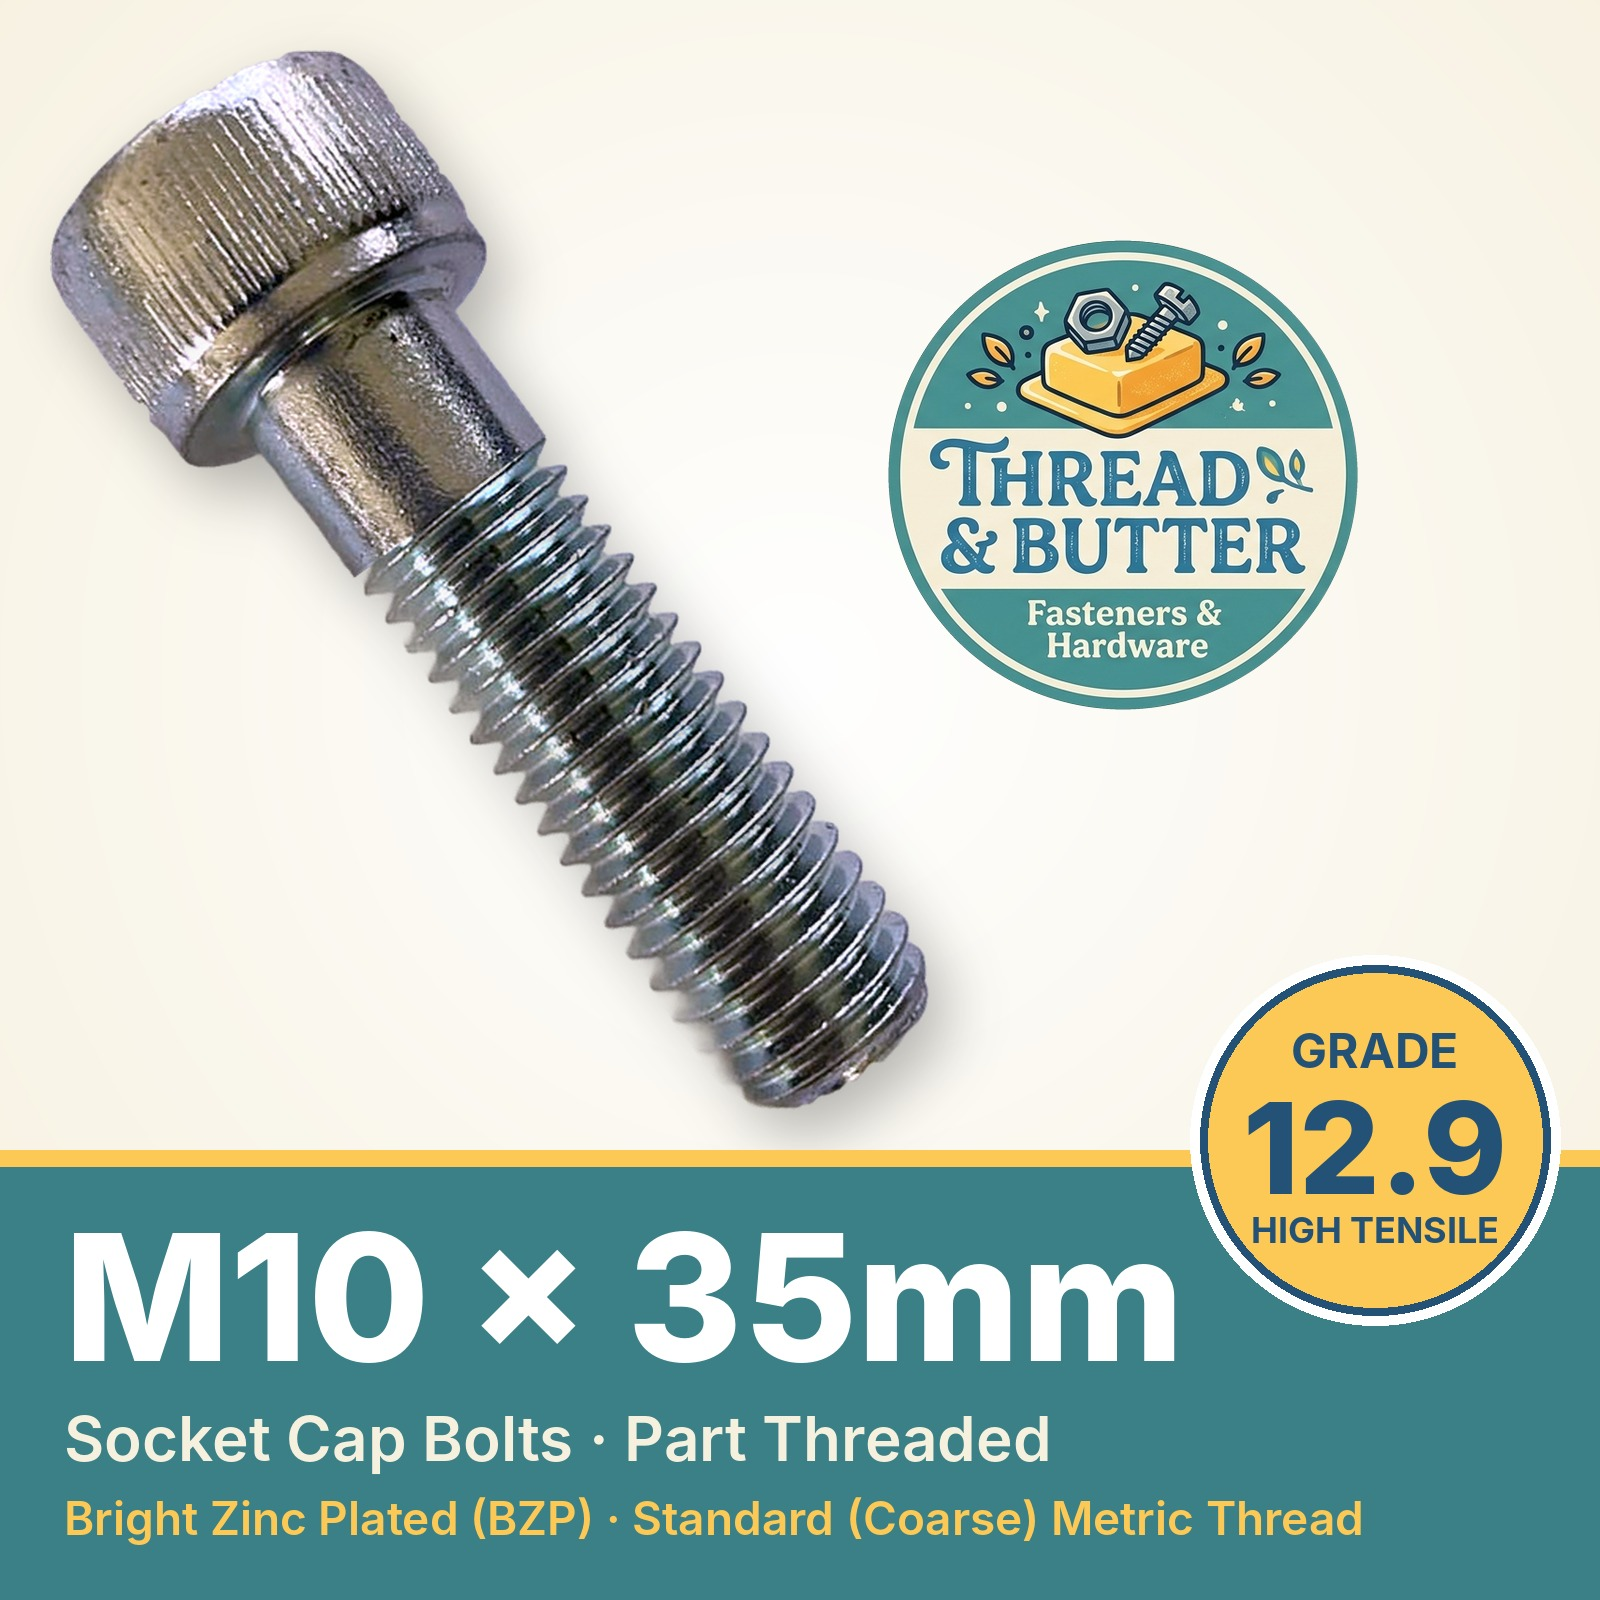
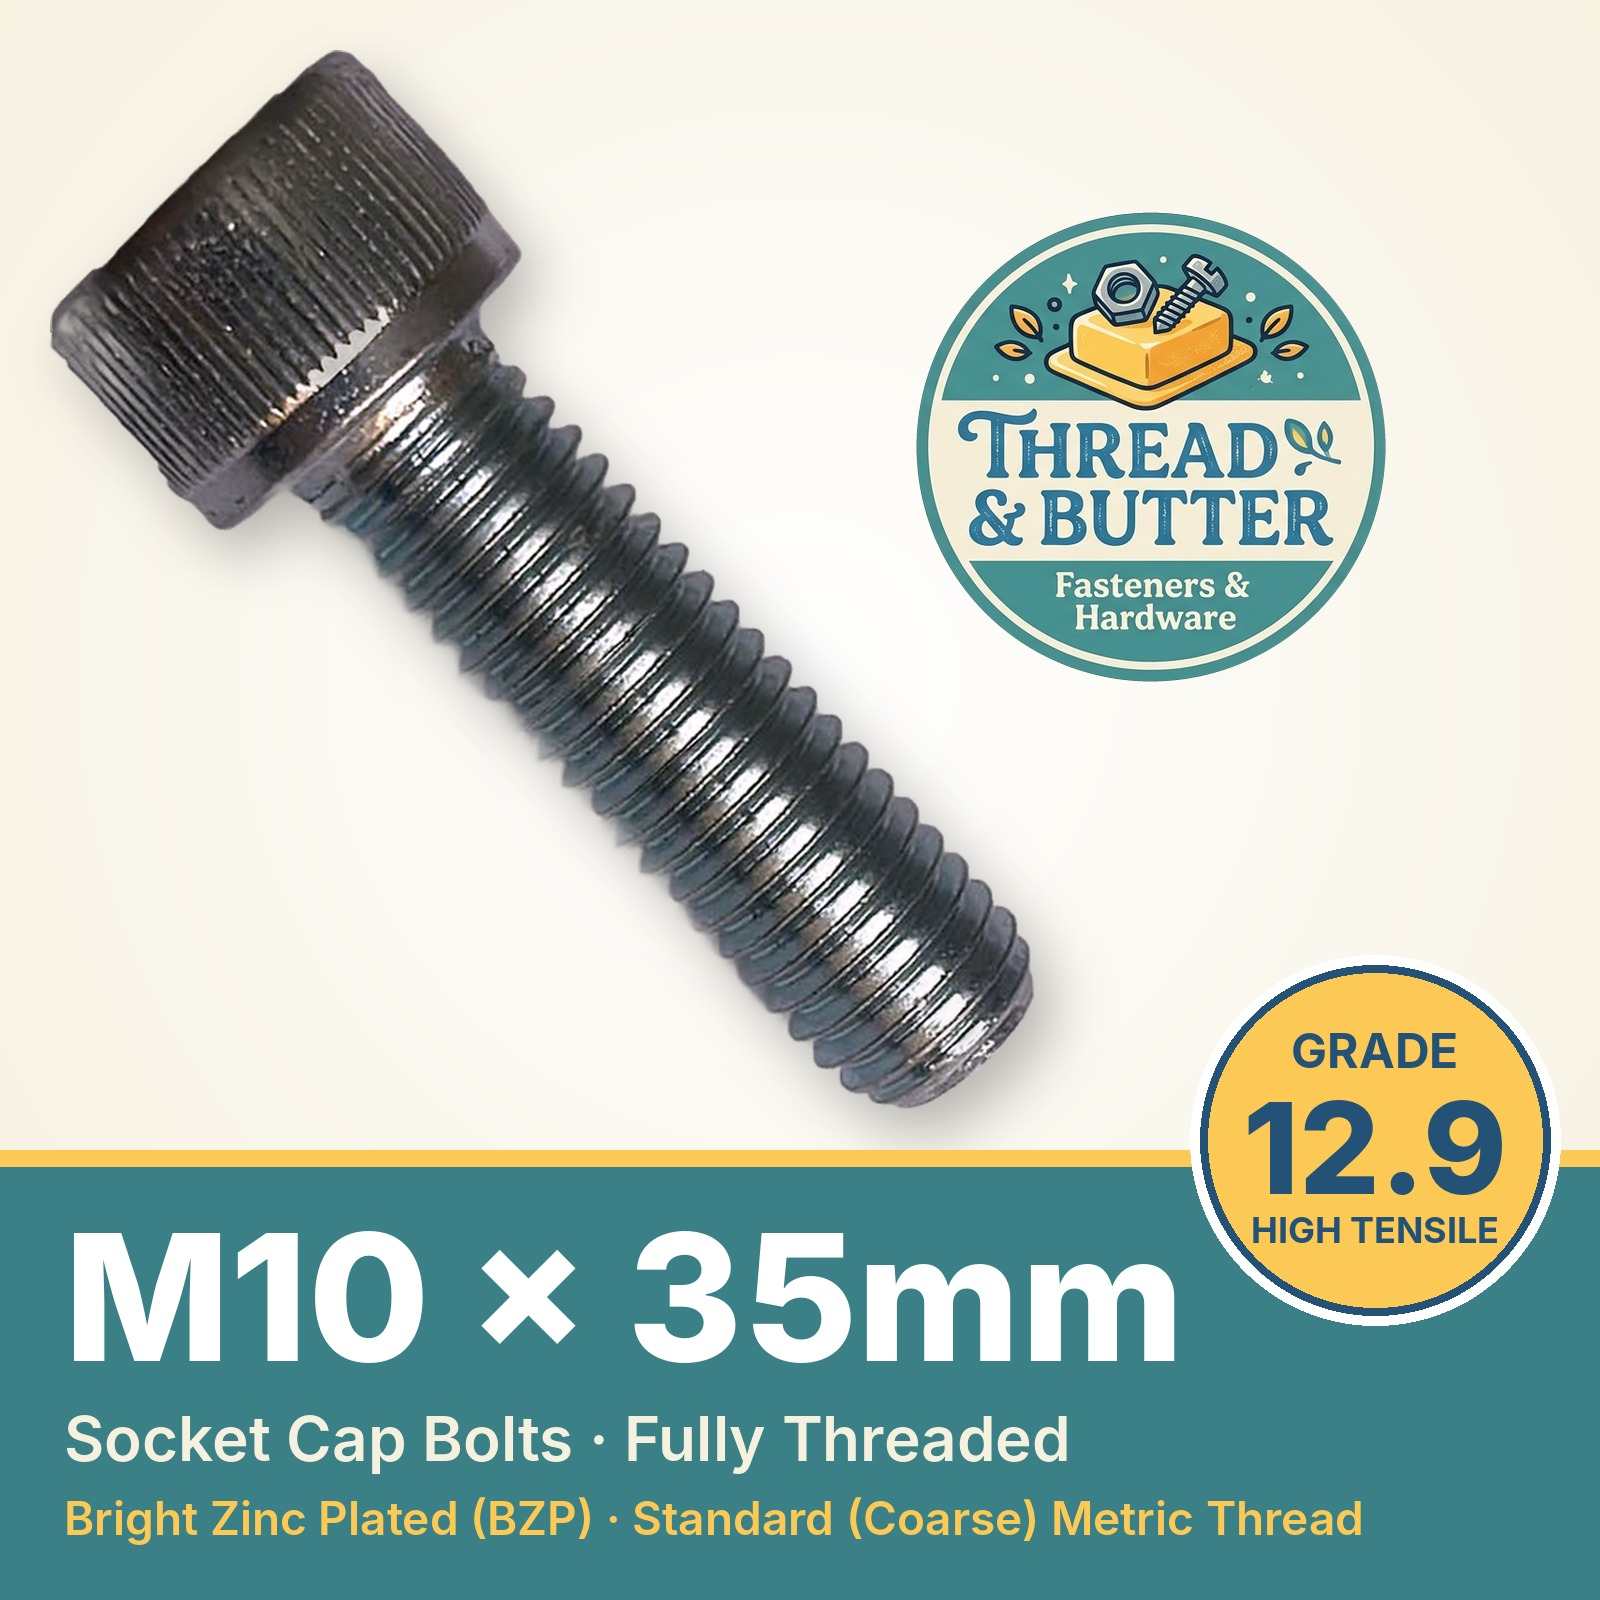
M10 x 35/40mm socket caps are fully threaded: pictures and descriptions
Claude-Session: https://claude.ai/code/session_01BDvgvPwPgotSTWsqhAi9Pu

Changed region(s): [[0.0312, 0.0312, 0.6875, 0.7188], [0.5312, 0.125, 0.875, 0.4688], [0.4062, 0.875, 0.6875, 0.9375]]

diff --git a/descriptions/M10-cap/SSC-M10-35-12.9-Z.html b/descriptions/M10-cap/SSC-M10-35-12.9-Z.html
@@ -5,9 +5,9 @@
 <h1 style="margin:4px 0 0;font-size:24px;line-height:1.25;">M10 x 35mm Socket Cap Bolts – BZP - Grade 12.9 (High Tensile)</h1>
 </div>
 <div style="background:#f6f0de;padding:16px 20px;">
-<p style="margin:0;">Part threaded M10 socket cap (allen head) bolts, 35mm long, in grade 12.9 high tensile steel with a bright zinc plated finish. Choose 1 bolt or a pack of 2, 5 or 10 from the drop-down menu.</p>
+<p style="margin:0;">Fully threaded M10 socket cap (allen head) bolts, 35mm long, in grade 12.9 high tensile steel with a bright zinc plated finish. Choose 1 bolt or a pack of 2, 5 or 10 from the drop-down menu.</p>
 </div>
 <h2 style="font-size:18px;color:#245276;margin:22px 0 8px;">Specification</h2>
-<table style="width:100%;border-collapse:collapse;background:#fff;"><tr><td style="padding:8px 12px;border-bottom:1px solid #e3dcc6;font-weight:bold;color:#265c62;width:32%;vertical-align:top;">Thread</td><td style="padding:8px 12px;border-bottom:1px solid #e3dcc6;">M10 x 1.5 mm (standard coarse pitch)</td></tr><tr><td style="padding:8px 12px;border-bottom:1px solid #e3dcc6;font-weight:bold;color:#265c62;width:32%;vertical-align:top;">Length</td><td style="padding:8px 12px;border-bottom:1px solid #e3dcc6;">35 mm, measured from under the head to the tip</td></tr><tr><td style="padding:8px 12px;border-bottom:1px solid #e3dcc6;font-weight:bold;color:#265c62;width:32%;vertical-align:top;">Threading</td><td style="padding:8px 12px;border-bottom:1px solid #e3dcc6;">Part threaded – plain shank under the head, threaded to the tip</td></tr><tr><td style="padding:8px 12px;border-bottom:1px solid #e3dcc6;font-weight:bold;color:#265c62;width:32%;vertical-align:top;">Head</td><td style="padding:8px 12px;border-bottom:1px solid #e3dcc6;">Cylindrical socket cap, 16 mm diameter, 10 mm high</td></tr><tr><td style="padding:8px 12px;border-bottom:1px solid #e3dcc6;font-weight:bold;color:#265c62;width:32%;vertical-align:top;">Drive</td><td style="padding:8px 12px;border-bottom:1px solid #e3dcc6;">Hex socket – 8 mm allen key</td></tr><tr><td style="padding:8px 12px;border-bottom:1px solid #e3dcc6;font-weight:bold;color:#265c62;width:32%;vertical-align:top;">Total length</td><td style="padding:8px 12px;border-bottom:1px solid #e3dcc6;">45 mm end to end, including the head</td></tr><tr><td style="padding:8px 12px;border-bottom:1px solid #e3dcc6;font-weight:bold;color:#265c62;width:32%;vertical-align:top;">Strength</td><td style="padding:8px 12px;border-bottom:1px solid #e3dcc6;">Grade 12.9 high tensile steel (1200 MPa tensile, 1080 MPa yield)</td></tr><tr><td style="padding:8px 12px;border-bottom:1px solid #e3dcc6;font-weight:bold;color:#265c62;width:32%;vertical-align:top;">Finish</td><td style="padding:8px 12px;border-bottom:1px solid #e3dcc6;">Bright Zinc Plated (BZP)</td></tr><tr><td style="padding:8px 12px;border-bottom:1px solid #e3dcc6;font-weight:bold;color:#265c62;width:32%;vertical-align:top;">Standard</td><td style="padding:8px 12px;border-bottom:1px solid #e3dcc6;">DIN 912 / ISO 4762</td></tr><tr><td style="padding:8px 12px;border-bottom:1px solid #e3dcc6;font-weight:bold;color:#265c62;width:32%;vertical-align:top;">Made in</td><td style="padding:8px 12px;border-bottom:1px solid #e3dcc6;">United Kingdom</td></tr></table>
+<table style="width:100%;border-collapse:collapse;background:#fff;"><tr><td style="padding:8px 12px;border-bottom:1px solid #e3dcc6;font-weight:bold;color:#265c62;width:32%;vertical-align:top;">Thread</td><td style="padding:8px 12px;border-bottom:1px solid #e3dcc6;">M10 x 1.5 mm (standard coarse pitch)</td></tr><tr><td style="padding:8px 12px;border-bottom:1px solid #e3dcc6;font-weight:bold;color:#265c62;width:32%;vertical-align:top;">Length</td><td style="padding:8px 12px;border-bottom:1px solid #e3dcc6;">35 mm, measured from under the head to the tip</td></tr><tr><td style="padding:8px 12px;border-bottom:1px solid #e3dcc6;font-weight:bold;color:#265c62;width:32%;vertical-align:top;">Threading</td><td style="padding:8px 12px;border-bottom:1px solid #e3dcc6;">Fully threaded – thread runs right up to the head</td></tr><tr><td style="padding:8px 12px;border-bottom:1px solid #e3dcc6;font-weight:bold;color:#265c62;width:32%;vertical-align:top;">Head</td><td style="padding:8px 12px;border-bottom:1px solid #e3dcc6;">Cylindrical socket cap, 16 mm diameter, 10 mm high</td></tr><tr><td style="padding:8px 12px;border-bottom:1px solid #e3dcc6;font-weight:bold;color:#265c62;width:32%;vertical-align:top;">Drive</td><td style="padding:8px 12px;border-bottom:1px solid #e3dcc6;">Hex socket – 8 mm allen key</td></tr><tr><td style="padding:8px 12px;border-bottom:1px solid #e3dcc6;font-weight:bold;color:#265c62;width:32%;vertical-align:top;">Total length</td><td style="padding:8px 12px;border-bottom:1px solid #e3dcc6;">45 mm end to end, including the head</td></tr><tr><td style="padding:8px 12px;border-bottom:1px solid #e3dcc6;font-weight:bold;color:#265c62;width:32%;vertical-align:top;">Strength</td><td style="padding:8px 12px;border-bottom:1px solid #e3dcc6;">Grade 12.9 high tensile steel (1200 MPa tensile, 1080 MPa yield)</td></tr><tr><td style="padding:8px 12px;border-bottom:1px solid #e3dcc6;font-weight:bold;color:#265c62;width:32%;vertical-align:top;">Finish</td><td style="padding:8px 12px;border-bottom:1px solid #e3dcc6;">Bright Zinc Plated (BZP)</td></tr><tr><td style="padding:8px 12px;border-bottom:1px solid #e3dcc6;font-weight:bold;color:#265c62;width:32%;vertical-align:top;">Standard</td><td style="padding:8px 12px;border-bottom:1px solid #e3dcc6;">DIN 912 / ISO 4762</td></tr><tr><td style="padding:8px 12px;border-bottom:1px solid #e3dcc6;font-weight:bold;color:#265c62;width:32%;vertical-align:top;">Made in</td><td style="padding:8px 12px;border-bottom:1px solid #e3dcc6;">United Kingdom</td></tr></table>
 <img src="https://tbfasteners.github.io/eby-fstnr-pcs/shared/footer.png" alt="Thread &amp; Butter – Specialists in High-Tensile Fasteners. Free postage, fast dispatch, made in UK." style="display:block;width:100%;max-width:800px;height:auto;border:0;margin:22px 0 0;">
 </div>

diff --git a/descriptions/M10-cap/SSC-M10-40-12.9-Z.html b/descriptions/M10-cap/SSC-M10-40-12.9-Z.html
@@ -5,9 +5,9 @@
 <h1 style="margin:4px 0 0;font-size:24px;line-height:1.25;">M10 x 40mm Socket Cap Bolts – BZP - Grade 12.9 (High Tensile)</h1>
 </div>
 <div style="background:#f6f0de;padding:16px 20px;">
-<p style="margin:0;">Part threaded M10 socket cap (allen head) bolts, 40mm long, in grade 12.9 high tensile steel with a bright zinc plated finish. Choose 1 bolt or a pack of 2, 5 or 10 from the drop-down menu.</p>
+<p style="margin:0;">Fully threaded M10 socket cap (allen head) bolts, 40mm long, in grade 12.9 high tensile steel with a bright zinc plated finish. Choose 1 bolt or a pack of 2, 5 or 10 from the drop-down menu.</p>
 </div>
 <h2 style="font-size:18px;color:#245276;margin:22px 0 8px;">Specification</h2>
-<table style="width:100%;border-collapse:collapse;background:#fff;"><tr><td style="padding:8px 12px;border-bottom:1px solid #e3dcc6;font-weight:bold;color:#265c62;width:32%;vertical-align:top;">Thread</td><td style="padding:8px 12px;border-bottom:1px solid #e3dcc6;">M10 x 1.5 mm (standard coarse pitch)</td></tr><tr><td style="padding:8px 12px;border-bottom:1px solid #e3dcc6;font-weight:bold;color:#265c62;width:32%;vertical-align:top;">Length</td><td style="padding:8px 12px;border-bottom:1px solid #e3dcc6;">40 mm, measured from under the head to the tip</td></tr><tr><td style="padding:8px 12px;border-bottom:1px solid #e3dcc6;font-weight:bold;color:#265c62;width:32%;vertical-align:top;">Threading</td><td style="padding:8px 12px;border-bottom:1px solid #e3dcc6;">Part threaded – plain shank under the head, threaded to the tip</td></tr><tr><td style="padding:8px 12px;border-bottom:1px solid #e3dcc6;font-weight:bold;color:#265c62;width:32%;vertical-align:top;">Head</td><td style="padding:8px 12px;border-bottom:1px solid #e3dcc6;">Cylindrical socket cap, 16 mm diameter, 10 mm high</td></tr><tr><td style="padding:8px 12px;border-bottom:1px solid #e3dcc6;font-weight:bold;color:#265c62;width:32%;vertical-align:top;">Drive</td><td style="padding:8px 12px;border-bottom:1px solid #e3dcc6;">Hex socket – 8 mm allen key</td></tr><tr><td style="padding:8px 12px;border-bottom:1px solid #e3dcc6;font-weight:bold;color:#265c62;width:32%;vertical-align:top;">Total length</td><td style="padding:8px 12px;border-bottom:1px solid #e3dcc6;">50 mm end to end, including the head</td></tr><tr><td style="padding:8px 12px;border-bottom:1px solid #e3dcc6;font-weight:bold;color:#265c62;width:32%;vertical-align:top;">Strength</td><td style="padding:8px 12px;border-bottom:1px solid #e3dcc6;">Grade 12.9 high tensile steel (1200 MPa tensile, 1080 MPa yield)</td></tr><tr><td style="padding:8px 12px;border-bottom:1px solid #e3dcc6;font-weight:bold;color:#265c62;width:32%;vertical-align:top;">Finish</td><td style="padding:8px 12px;border-bottom:1px solid #e3dcc6;">Bright Zinc Plated (BZP)</td></tr><tr><td style="padding:8px 12px;border-bottom:1px solid #e3dcc6;font-weight:bold;color:#265c62;width:32%;vertical-align:top;">Standard</td><td style="padding:8px 12px;border-bottom:1px solid #e3dcc6;">DIN 912 / ISO 4762</td></tr><tr><td style="padding:8px 12px;border-bottom:1px solid #e3dcc6;font-weight:bold;color:#265c62;width:32%;vertical-align:top;">Made in</td><td style="padding:8px 12px;border-bottom:1px solid #e3dcc6;">United Kingdom</td></tr></table>
+<table style="width:100%;border-collapse:collapse;background:#fff;"><tr><td style="padding:8px 12px;border-bottom:1px solid #e3dcc6;font-weight:bold;color:#265c62;width:32%;vertical-align:top;">Thread</td><td style="padding:8px 12px;border-bottom:1px solid #e3dcc6;">M10 x 1.5 mm (standard coarse pitch)</td></tr><tr><td style="padding:8px 12px;border-bottom:1px solid #e3dcc6;font-weight:bold;color:#265c62;width:32%;vertical-align:top;">Length</td><td style="padding:8px 12px;border-bottom:1px solid #e3dcc6;">40 mm, measured from under the head to the tip</td></tr><tr><td style="padding:8px 12px;border-bottom:1px solid #e3dcc6;font-weight:bold;color:#265c62;width:32%;vertical-align:top;">Threading</td><td style="padding:8px 12px;border-bottom:1px solid #e3dcc6;">Fully threaded – thread runs right up to the head</td></tr><tr><td style="padding:8px 12px;border-bottom:1px solid #e3dcc6;font-weight:bold;color:#265c62;width:32%;vertical-align:top;">Head</td><td style="padding:8px 12px;border-bottom:1px solid #e3dcc6;">Cylindrical socket cap, 16 mm diameter, 10 mm high</td></tr><tr><td style="padding:8px 12px;border-bottom:1px solid #e3dcc6;font-weight:bold;color:#265c62;width:32%;vertical-align:top;">Drive</td><td style="padding:8px 12px;border-bottom:1px solid #e3dcc6;">Hex socket – 8 mm allen key</td></tr><tr><td style="padding:8px 12px;border-bottom:1px solid #e3dcc6;font-weight:bold;color:#265c62;width:32%;vertical-align:top;">Total length</td><td style="padding:8px 12px;border-bottom:1px solid #e3dcc6;">50 mm end to end, including the head</td></tr><tr><td style="padding:8px 12px;border-bottom:1px solid #e3dcc6;font-weight:bold;color:#265c62;width:32%;vertical-align:top;">Strength</td><td style="padding:8px 12px;border-bottom:1px solid #e3dcc6;">Grade 12.9 high tensile steel (1200 MPa tensile, 1080 MPa yield)</td></tr><tr><td style="padding:8px 12px;border-bottom:1px solid #e3dcc6;font-weight:bold;color:#265c62;width:32%;vertical-align:top;">Finish</td><td style="padding:8px 12px;border-bottom:1px solid #e3dcc6;">Bright Zinc Plated (BZP)</td></tr><tr><td style="padding:8px 12px;border-bottom:1px solid #e3dcc6;font-weight:bold;color:#265c62;width:32%;vertical-align:top;">Standard</td><td style="padding:8px 12px;border-bottom:1px solid #e3dcc6;">DIN 912 / ISO 4762</td></tr><tr><td style="padding:8px 12px;border-bottom:1px solid #e3dcc6;font-weight:bold;color:#265c62;width:32%;vertical-align:top;">Made in</td><td style="padding:8px 12px;border-bottom:1px solid #e3dcc6;">United Kingdom</td></tr></table>
 <img src="https://tbfasteners.github.io/eby-fstnr-pcs/shared/footer.png" alt="Thread &amp; Butter – Specialists in High-Tensile Fasteners. Free postage, fast dispatch, made in UK." style="display:block;width:100%;max-width:800px;height:auto;border:0;margin:22px 0 0;">
 </div>
